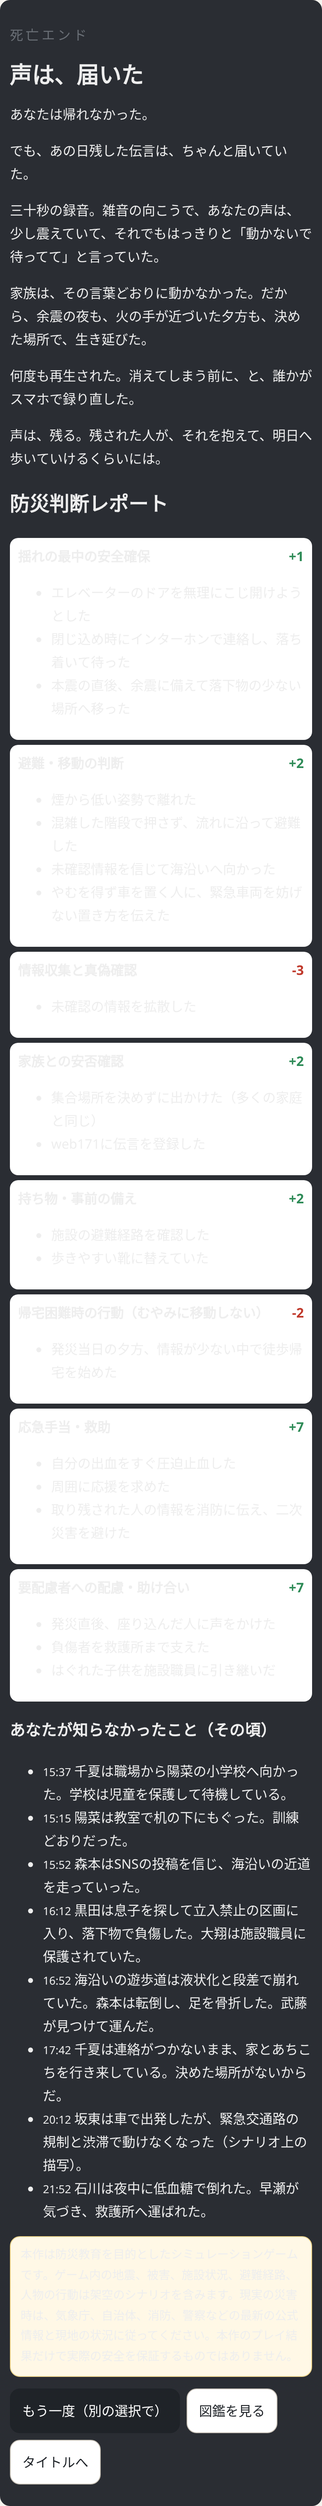
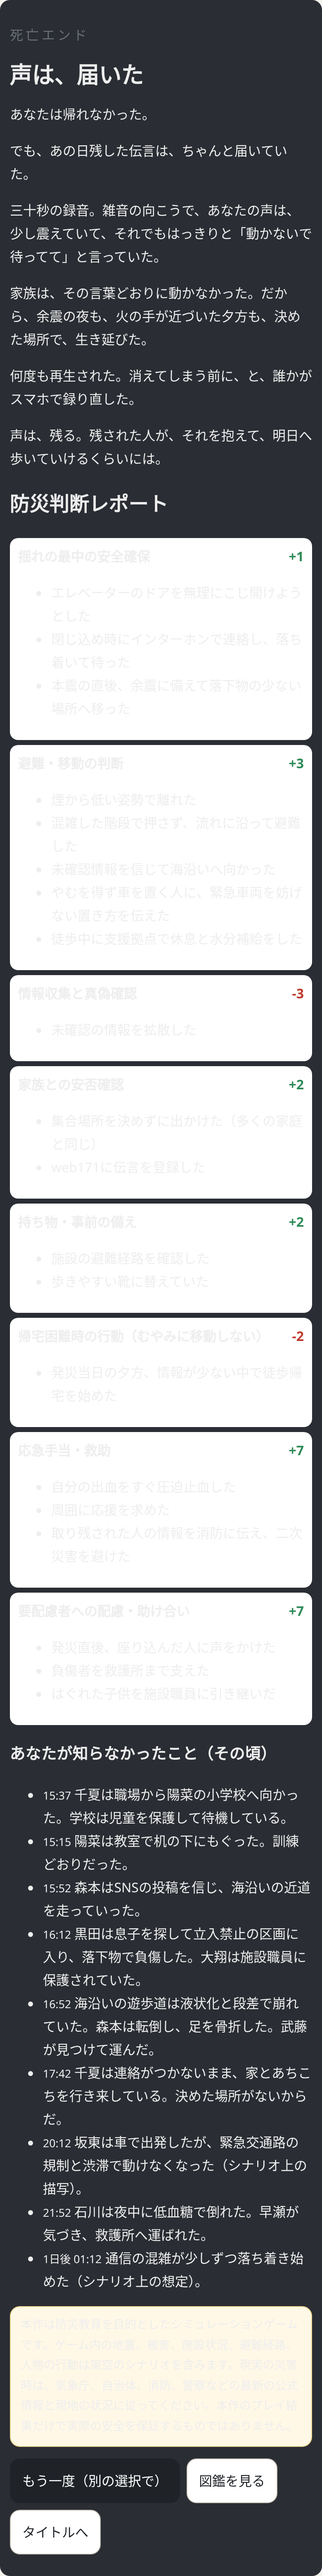
Stage 16: ch3 walk/aid route nights; relocate facility-night chain

diff --git a/src/data/scenes6z.ts b/src/data/scenes6z.ts
@@ -109,7 +109,8 @@ export const ch6z: Scene[] = [
     ['同僚', '安藤さん！'],
     ['{fam1}', 'はい、今行きます。'],
   ], { next: 'c2_end' }),
-  // ==== Stage 13: ch3 ルート別「夜の入口」 ====
+  // ==== Stage 13: ch3 ルート別「施設の夜」（Stage16で施設泊ルートの末尾へ移設） ====
+  R('c3_nt_r', 3, [{ if: { preset: 'worker' }, goto: 'c3w_nA' }, { if: { preset: 'student' }, goto: 'c3s_nA' }, { if: {}, goto: 'c3p_nA' }]),
   S('c3w_nA', 3, 'crowd', [
     ['', '施設の入口近くで、職員が、段ボールを配っていた。床に敷くための段ボール。一人一枚。'],
     ['職員', '床は冷えます。直接寝ないで、一枚でも敷いてください（※この施設は架空です）。'],
@@ -149,7 +150,7 @@ export const ch6z: Scene[] = [
     ['', 'それでも、灯りは、まだ、たくさん残っていた。あの一つ一つの下に、誰かがいる。誰かを待っている誰かがいる。'],
     ['', 'トイレの前には、細い列ができていた。誰も、文句を言わなかった。列の一番後ろで、{me}は、長い時間、待った。待つのは、もう、慣れた。今日一日で、一生分、待った気がする。'],
     ['', '戻ると、さっきのスーツの男が、小さないびきをかいていた。その音が、なぜか、{me}を安心させた。人が眠れる場所に、自分はいる。'],
-  ], { onEnter: { know: 'k_infection' }, next: 'c3_hub' }),
+  ], { onEnter: { know: 'k_infection' }, next: 'c4_dawn' }),
 
   S('c3s_nA', 3, 'crowd', [
     ['', '施設の受付の横に、手書きの貼り紙があった。「外国語の分かる方、お手伝いをお願いします」（※この施設は架空です）。'],
@@ -194,7 +195,7 @@ export const ch6z: Scene[] = [
     ['おばあさん', '大丈夫。揺れたら、また、おさまるの。いつも、そう。'],
     ['', 'その言葉は、科学ではなかった。統計でも、防災の知識でもなかった。でも、{me}は、ノートに、それを書き留めた。「揺れたら、また、おさまる」。'],
     ['', '書き終えて、顔を上げると、ホールの高い窓の向こうで、月が、少しだけ傾いていた。'],
-  ], { onEnter: { know: 'k_aftershock' }, next: 'c3_hub' }),
+  ], { onEnter: { know: 'k_aftershock' }, next: 'c4_dawn' }),
 
   S('c3p_nA', 3, 'crowd', [
     ['', '施設の隅に、「乳幼児のいる方」と書かれた貼り紙があった。仕切りのパネルで囲まれた、小さな一角（※この施設・運用は架空です）。'],
@@ -240,7 +241,7 @@ export const ch6z: Scene[] = [
     ['', '子どもは、怖い体験のあと、夜泣きや、甘えが強くなることがある。それは、異常なことではない、と、いつか美咲が言っていた（※子どもの心のケア・k_mental・要監修）。'],
     ['', 'やがて、律の手足から、力が抜けた。小さな寝息。健司の胸のシャツが、律の涙と鼻水で、ぐっしょりと濡れていた。'],
     ['', '仕切りの向こうで、誰かが、小さく「おつかれさま」と言った。誰の声かは、分からなかった。'],
-  ], { onEnter: { know: 'k_mental' }, next: 'c3_hub' }),
+  ], { onEnter: { know: 'k_mental' }, next: 'c4_dawn' }),
   // ==== Stage 14: ch4 ルート別「避難所の数日」 ====
   R('c4_dr_r', 4, [{ if: { preset: 'worker' }, goto: 'c4w_dA' }, { if: { preset: 'student' }, goto: 'c4s_dA' }, { if: {}, goto: 'c4p_dA' }]),
   S('c4w_dA', 4, 'shelter_life', [
@@ -523,5 +524,110 @@ export const ch6z: Scene[] = [
     ['', '美咲は、絵を、胸に抱いた。泣いているのか、笑っているのか、分からなかった。たぶん、両方だった。'],
     ['', 'その日の午後、絵は、額に入れられて、玄関に飾られた。防災ノートの、すぐ上に。'],
   ], { next: 'c5_drill' }),
+  // ==== Stage 16: ch3 徒歩ルート・救護ルートの夜（ルート別） ====
+  R('c3_wk_r', 3, [{ if: { preset: 'worker' }, goto: 'c3w_wkA' }, { if: { preset: 'student' }, goto: 'c3s_wkA' }, { if: {}, goto: 'c3p_wkA' }]),
+  S('c3w_wkA', 3, 'walk_night', [
+    ['', '橋を渡りきると、道は、急に静かになった。車道には、止まったままの車の列。運転席で、誰かが眠っている。'],
+    ['', '歩道を歩く人の列は、途切れなかった。誰も、しゃべらない。靴音だけが、一定のリズムで続いている。数えきれない靴音。革靴。スニーカー。ヒール。'],
+    ['', '{me}の安全靴は、重かった。でも、足の裏は、まだ無事だった。毎日、現場で一日中立っている足だ。隣を歩くスーツの男は、革靴のかかとを踏みつぶして、引きずるように歩いていた。'],
+    ['', 'コンビニの前に、手書きの紙が貼られていた。「トイレ・水道水どうぞ（※店舗は架空）」。店員が、入口で、ひとりずつ、頭を下げていた。'],
+  ], { choices: [
+      C('wk_rest', '少しだけ店先で休み、足を休ませる', 'c3w_wkB', { icon: '🏪', effects: { stamina: 4, know: 'k_walk_home' }, result: '店先の縁石に腰を下ろした。五分だけ。それだけで、膝の奥の熱が、少し引いた。徒歩で帰るなら、休みながら進むことだ（※帰宅支援の考え方・k_walk_home）。' }),
+      C('wk_push', '休まずに、歩き続ける', 'c3w_wkB', { icon: '🚶', effects: { stamina: -4, time: -10 }, result: '止まったら、もう、立てない気がした。{me}は、コンビニの明かりを、横目で通り過ぎた。' }),
+    ] }),
+  S('c3w_wkB', 3, 'walk_night', [
+    ['', '途中、建設中のビルの前を通った。仮囲いのシートが、一枚、外れて、風にあおられていた。'],
+    ['', '{me}は、足を止めた。囲いの内側で、クレーンのフックが、ゆっくりと揺れている。誰もいない現場。照明は消えていた。'],
+    ['', '体が、勝手に動いた。外れたシートの端を、近くの単管に結び直す。仮の、ほんの応急の結び方。でも、通行人の頭の上に、何かが落ちてくるよりは、ましだ（※危険な建物・工事現場には近づかないことが基本）。'],
+    ['', '結び終えて、{me}は、自分の手を見た。暗くて、よく見えない。でも、いつもの手だった。'],
+    ['', '（陽菜。パパは、今日、壊れたものを、一個だけ、直したよ）'],
+  ], { next: 'c3w_wkC' }),
+  S('c3w_wkC', 3, 'walk_night', [
+    ['', '真夜中。大きな交差点で、ボランティアの腕章をつけた人が、懐中電灯を振っていた。'],
+    ['腕章の人', 'この先、道路に段差ができてます。左側の歩道を使ってください（※道路状況は架空）。'],
+    ['', 'ライトに照らされた道路は、確かに、波打つように、うねっていた。マンホールが、少しだけ、地面から浮き上がっている（※液状化などで起きることがある・k_liquefaction）。'],
+    ['', '{me}は、左の歩道に移った。前を歩く親子連れの父親が、子どもを肩車していた。子どもは、眠っていた。父親の頭に、頬をのせて。'],
+    ['', 'あの背中を、{me}は、しばらく、見つめながら歩いた。陽菜を肩車したのは、いつが最後だっただろう。もう、重くて、そんなに長くは、できない。'],
+    ['', '帰ったら、もう一度、肩車をしよう。重くても。腰が痛くても。'],
+  ], { onEnter: { know: 'k_liquefaction' }, next: 'c4_dawn_walk' }),
+
+  S('c3s_wkA', 3, 'walk_night', [
+    ['', '橋を渡ると、{me}は、自分のスニーカーの紐を、結び直した。きつく。もう一度、きつく。'],
+    ['', 'トートバッグが、肩に食いこむ。図書館の本が、こんなに重いとは思わなかった。民俗学の、分厚い本。返却期限は、来週の火曜日。'],
+    ['', '捨てていこうか、と一瞬だけ思った。でも、捨てられなかった。図書館の本だ。誰かが、次に読む本だ。'],
+    ['', 'かわりに、{me}は、ペットボトルの水を、半分飲んだ。少しでも、軽く。'],
+  ], { next: 'c3s_wkB' }),
+  S('c3s_wkB', 3, 'walk_night', [
+    ['', '道沿いの小学校の門に、「帰宅困難者の方、休憩できます（※施設は架空）」という紙が貼られていた。'],
+    ['', '校庭には、ブルーシートが敷かれ、何十人もの人が、座ったり、横になったりしていた。'],
+    ['', '受付の机で、ジャージ姿の女性が、名簿に名前を書いてもらっていた。'],
+    ['ジャージの女性', 'お名前と、行き先だけでいいですよ。ご家族が探しに来たとき、分かるように（※名簿の扱いは施設により異なる・要監修）。'],
+  ], { choices: [
+      C('wk_write', '名簿に名前と行き先を書き、少し休む', 'c3s_wkC', { icon: '📋', effects: { stamina: 4, mental: 2, know: 'k_walk_home' }, result: '「葵。品川方面」。字が、震えた。それでも、書いた。誰かが、この字を見て、わたしがここを通ったと知るかもしれない。それだけで、少し、地面に足がついた気がした。' }),
+      C('wk_go', '先を急ぐので、水だけもらって出発する', 'c3s_wkC', { icon: '🚰', effects: { water: 10 }, result: '水道の水は、冷たくて、少し鉄の味がした。おいしかった。{me}は、もう一度、紐を結び直して、門を出た。' }),
+    ] }),
+  S('c3s_wkC', 3, 'walk_night', [
+    ['', '夜が、一番深い時間。{me}は、歩きながら、祖母の家のことを考えないようにしていた。考えたら、足が、別の方向へ向いてしまうから。'],
+    ['', 'かわりに、ゼミで読んだ古い記録のことを考えた。昔の大地震のあと、人々は、何日もかけて、歩いて故郷へ帰った。草鞋をすり切らしながら。'],
+    ['', '記録には、こうあった。「道中、見知らぬ者より、握り飯を賜る」。'],
+    ['', '前を歩いていた中年の女性が、振り返って、{me}に飴を一つ差し出した。何も言わずに。'],
+    ['', '{me}は、それを受け取って、頭を下げた。のど飴だった。ハッカの味が、鼻の奥まで、すうっと通った。'],
+    ['', '百年たっても、人は、同じことをする。{me}は、そのことを、ノートに書いておこうと思った。ちゃんと、生きて、帰れたら。'],
+  ], { next: 'c4_dawn_walk' }),
+
+  S('c3p_wkA', 3, 'walk_night', [
+    ['', '橋を渡ると、律の体が、急に重くなった。眠ったのだ。眠った子どもは、起きている子どもより、ずっと重い。'],
+    ['', '健司は、抱っこ紐の位置を、何度も直した。肩が、焼けるように痛い。ベビーカーは、段差の多い夜道では、かえって危なかった。'],
+    ['', '律の寝息が、首筋にあたる。温かい。生きている、温かさ。'],
+    ['', '（大丈夫。あと少し。あと少しだけ、がんばれ、肩）'],
+  ], { choices: [
+      C('wk_switch', '道端で律を下ろさずに、抱っこ紐を左右付け替えて休む', 'c3p_wkB', { icon: '🔄', effects: { stamina: 3 }, result: '右肩から左肩へ。たったそれだけで、右腕に、血が戻ってくるのが分かった。律は、一度も目を覚まさなかった。' }),
+      C('wk_bench', '公園のベンチで、十分だけ座る', 'c3p_wkB', { icon: '🪑', effects: { stamina: 5, time: 10, know: 'k_walk_home' }, result: 'ベンチは冷たかった。でも、座れた。子どもを連れての徒歩帰宅は、無理をしないことが一番だ（※k_walk_home）。夜空に、星が、ひとつだけ見えた。' }),
+    ] }),
+  S('c3p_wkB', 3, 'walk_night', [
+    ['', '途中、二十四時間営業の薬局の前で、若い女性が、健司を呼び止めた。'],
+    ['女性', 'あの……お子さん、靴、脱げそうですよ。'],
+    ['', '健司は、律の足を見た。青いスニーカーが、かかとから半分ずり落ちて、つま先だけでぶら下がっていた。光らなくなった靴。あと一歩で、夜道に落とすところだった。'],
+    ['', '女性は、靴をそっと律の足に戻してくれた。それから、律のくるぶしに触れて、少し眉を寄せた。'],
+    ['女性', '足、冷えてますね。これ、よかったら。弟のなんですけど、もう履かないから。'],
+    ['', '女性は、バッグから、小さな靴下を一足、取り出した。厚手の、毛糸の靴下。'],
+    ['', '健司は、何度も頭を下げた。女性は、「お互いさまです」と笑って、夜の中へ歩いていった。名前も、聞かなかった。'],
+  ], { next: 'c3p_wkC' }),
+  S('c3p_wkC', 3, 'walk_night', [
+    ['', '靴を脱がせ、毛糸の靴下を履かせてから、もう一度靴を履かせた。その律の足を、健司は、手のひらで包んだ。冷たかった。でも、靴下の中で、少しずつ、温まっていく。'],
+    ['', '空が、ほんの少しだけ、白みはじめていた。まだ、夜。でも、夜の終わりの、夜。'],
+    ['', '律が、寝言を言った。'],
+    ['{fam2}', '……ママ……くつ……'],
+    ['', '健司は、律の頭を、そっと撫でた。'],
+    ['{me}', '靴、ちゃんとあるよ。帰ったら、電池、替えような。また、光るように。'],
+    ['', '律は、答えなかった。でも、口元が、少しだけ、笑った気がした。'],
+  ], { next: 'c4_dawn_walk' }),
+
+  R('c3_ad_r', 3, [{ if: { preset: 'worker' }, goto: 'c3w_adA' }, { if: { preset: 'student' }, goto: 'c3s_adA' }, { if: {}, goto: 'c3p_adA' }]),
+  S('c3w_adA', 3, 'aid', [
+    ['', '夜が明けかけた救護所で、{me}は、使い終わった段ボールを、ひとつずつ畳んでいた。'],
+    ['', '一晩で、驚くほどのごみが出た。血のついたガーゼ。空のペットボトル。包装のビニール。早瀬が、「感染に気をつけて、手袋をして」と言った（※k_infection）。'],
+    ['', '{me}は、軍手の上から、ゴム手袋をはめた。袋を二重にして、口を固く縛る。毎日、現場でやっている片付けと、同じだった。ただ、ここでは、ごみの一つ一つに、誰かの夜が染みこんでいた。'],
+    ['', '畳み終えた段ボールの山の上に、子どもの描いた絵が一枚、落ちていた。クレヨンの、赤い太陽。{me}は、それを拾って、受付の机の上に、そっと置いた。持ち主が、取りに来るかもしれないから。'],
+  ], { onEnter: { know: 'k_infection' }, next: 'c4_dawn' }),
+  S('c3s_adA', 3, 'aid', [
+    ['', '夜が明けかけた救護所で、{me}は、自分の手が、ずっと震えているのに気づいた。'],
+    ['', '一晩じゅう、早瀬の指示で、ガーゼを渡し、水を運び、名前を書き留めた。怖いと思う暇も、なかった。暇ができた今、怖さが、まとめて、押し寄せてくる。'],
+    ['', '早瀬が、{me}の隣に座って、紙コップのお茶を差し出した。'],
+    ['早瀬', '手、震えてるね。それ、ちゃんと、怖かったっていう印。おかしなことじゃない。'],
+    ['早瀬', 'あとで、眠れなくなったり、急に思い出して苦しくなったりしたら、一人で抱えないで。相談できる窓口もあるから（※こころのケアの相談窓口・k_mental・要監修）。'],
+    ['', '{me}は、お茶を両手で包んだ。温かかった。手の震えは、止まらなかった。でも、止まらなくてもいいのだと、思えた。'],
+  ], { onEnter: { know: 'k_mental' }, next: 'c4_dawn' }),
+  S('c3p_adA', 3, 'aid', [
+    ['', '夜が明けかけた救護所で、律が目を覚ました。'],
+    ['{fam2}', 'パパ……ここ、どこ？'],
+    ['{me}', '病院みたいなところ。みんなを、元気にするところ。'],
+    ['', '律は、きょろきょろと周りを見回した。白い毛布。包帯を巻いた人たち。眠っている、知らないおじいさん。'],
+    ['{fam2}', 'ママのおしごとと、おなじ？'],
+    ['{me}', '……うん。おなじ。'],
+    ['', '律は、少し考えてから、ポケットに手を入れた。そして、最後の一枚の、魚のビスケットを取り出して、早瀬のところへ、とことこと歩いていった。'],
+    ['{fam2}', 'これ、あげる。がんばったから。'],
+    ['', '早瀬は、しばらく、ビスケットを見つめていた。それから、両手で、それを受け取った。「ありがとう」と言った声は、少し、かすれていた。'],
+  ], { next: 'c4_dawn' }),
 // @@END
 ];

diff --git a/src/data/scenes2.ts b/src/data/scenes2.ts
@@ -28,8 +28,8 @@ export const ch3: Scene[] = [
     ['拓海', 'じゃあ、夜までに、帰らないとな。'],
     ['', '拓海は、そう言ってから、自分の言葉の重さに気づいたように、黙った。今夜、帰れるかどうか、二人とも、分からなかった。'],
   ], { choices: [
-      C('save', 'スマホを省電力モードにして、画面を消す', 'c3w_nA', { icon: '🔋', effects: { battery: 3, know: 'k_comm' }, result: '画面の明るさを、一番下まで落とした。陽菜の笑顔が、暗い画面の向こうに沈んでいった。また、明るいところで見よう。' }),
-      C('note', '手帳に、陽菜の学校と千夏の会社の住所を書き写す', 'c3w_nA', { icon: '📝', effects: { flag: 'wrote_addresses' }, result: 'スマホが消えても、この紙は消えない。ボールペンの字は、震えて、ひどく読みにくかった。それでも、読めた。' }),
+      C('save', 'スマホを省電力モードにして、画面を消す', 'c3_hub', { icon: '🔋', effects: { battery: 3, know: 'k_comm' }, result: '画面の明るさを、一番下まで落とした。陽菜の笑顔が、暗い画面の向こうに沈んでいった。また、明るいところで見よう。' }),
+      C('note', '手帳に、陽菜の学校と千夏の会社の住所を書き写す', 'c3_hub', { icon: '📝', effects: { flag: 'wrote_addresses' }, result: 'スマホが消えても、この紙は消えない。ボールペンの字は、震えて、ひどく読みにくかった。それでも、読めた。' }),
     ] }),
   S('c3s_dusk', 3, 'crowd', [
     ['', '葵は、広場の植え込みの縁に腰かけて、靴を脱いだ。かかとに、靴ずれができていた。今日は、歩くつもりのない靴で来ていた。'],
@@ -41,8 +41,8 @@ export const ch3: Scene[] = [
     ['女の子', 'ありがとう。……なんか、おばあちゃんみたいな絆創膏ですね。'],
     ['', '葵は、声を出して笑った。地震のあと、初めて笑った。'],
   ], { choices: [
-      C('exchange', '連絡先を交換して、お互いの無事を知らせ合う約束をする', 'c3s_nA', { icon: '🤝', effects: { mental: 4, flag: 'met_traveler' }, result: '「無事に飛べたら、連絡します」。「飛べなくても、連絡して」。二人は、そう言い合って、少しだけ、また笑った。' }),
-      C('rest', 'かかとの手当てをして、少し休む', 'c3s_nA', { icon: '🩹', effects: { stamina: 4 }, result: 'もう一枚の絆創膏を、自分のかかとに貼った。祖母の匂いがする気がした。気のせいだと分かっていても。' }),
+      C('exchange', '連絡先を交換して、お互いの無事を知らせ合う約束をする', 'c3_hub', { icon: '🤝', effects: { mental: 4, flag: 'met_traveler' }, result: '「無事に飛べたら、連絡します」。「飛べなくても、連絡して」。二人は、そう言い合って、少しだけ、また笑った。' }),
+      C('rest', 'かかとの手当てをして、少し休む', 'c3_hub', { icon: '🩹', effects: { stamina: 4 }, result: 'もう一枚の絆創膏を、自分のかかとに貼った。祖母の匂いがする気がした。気のせいだと分かっていても。' }),
     ] }),
   S('c3p_dusk', 3, 'crowd', [
     ['', '律が、健司の膝の上で、眠りかけていた。昼寝の時間を、とっくに過ぎている。まぶたが、落ちては、はっと開き、また落ちる。'],
@@ -56,8 +56,8 @@ export const ch3: Scene[] = [
     ['', '小さな袋に、ビスケットは、七枚しか入っていなかった。律は、それを、真剣な顔で数えて、四枚を健司の手のひらに置いた。'],
     ['律', 'パパ、おおきいから、おおい。'],
   ], { choices: [
-      C('eat', '一枚だけ食べて、残りは律のために取っておく', 'c3p_nA', { icon: '🐟', effects: { mental: 4, flag: 'saved_biscuit' }, result: '一枚を口に入れた。甘くて、少し塩辛い。残りの三枚を、そっと袋に戻した。夜中に、律がお腹をすかせて起きたときのために。' }),
-      C('all', '「ありがとう」と、四枚全部を一緒に食べる', 'c3p_nA', { icon: '😋', effects: { stamina: 2, mental: 3 }, result: '二人で、一枚ずつ、ゆっくり食べた。律は、最後の一枚を食べ終えると、満足そうに、健司の胸で眠った。' }),
+      C('eat', '一枚だけ食べて、残りは律のために取っておく', 'c3_hub', { icon: '🐟', effects: { mental: 4, flag: 'saved_biscuit' }, result: '一枚を口に入れた。甘くて、少し塩辛い。残りの三枚を、そっと袋に戻した。夜中に、律がお腹をすかせて起きたときのために。' }),
+      C('all', '「ありがとう」と、四枚全部を一緒に食べる', 'c3_hub', { icon: '😋', effects: { stamina: 2, mental: 3 }, result: '二人で、一枚ずつ、ゆっくり食べた。律は、最後の一枚を食べ終えると、満足そうに、健司の胸で眠った。' }),
     ] }),
   S('c3_hub', 3, 'crowd', [
     ['拓海', 'なあ。モールの奥に、まだ人が残ってるって。煙の向こうから声がした。'],
@@ -132,11 +132,11 @@ export const ch3: Scene[] = [
   S('c3_171', 3, 'phone_171', [
     ['', '171で、自分の家族からの伝言を再生してみる。'],
   ], { alt: [{ if: { flag: 'fam1_recorded171' }, goto: 'c3_171_yes' }], lines: [['', '「お預かりしている伝言はありません」'], ['', '決めていなかった。どこに、何を残すか。']],
-    onEnter: { mental: -8 }, next: 'c4_dawn' }),
+    onEnter: { mental: -8 }, next: 'c3_nt_r' }),
   S('c3_171_yes', 3, 'phone_171', [
     ['{fam1}', '（録音）……{fam1}です。{fam2}も無事。約束どおり、ここに残すね。私たちは動かない。あなたも、無理しないで。'],
     ['', '声を聞いた瞬間、体の力が抜けた。'],
-  ], { onEnter: { mental: 25, flag: 'heard_fam1' }, next: 'c4_dawn' }),
+  ], { onEnter: { mental: 25, flag: 'heard_fam1' }, next: 'c3_nt_r' }),
   // --- walk route ---
   S('c3_walk1', 3, 'liquefaction', [
     ['', '有明方面。歩道のあちこちから砂が噴き出し、マンホールが突き出している。'],
@@ -163,9 +163,9 @@ export const ch3: Scene[] = [
     ['', '「この先、通れるらしい」と誰かが言う。根拠は分からない。別の誰かが「向こうは燃えてるって」と言う。それにも、根拠はない。'],
     ['', 'スマホの電池は、もう心もとない。明るい情報も暗い情報も、同じ小さな画面の中で、同じ大きさの文字で流れていく。いま、この橋の上で、正しいことを知っている人は、たぶん一人もいない。'],
   ], { fx: 'dark', onEnter: { time: 60, know: 'k_smoke' }, choices: [
-      C('detour', '風上へ大きく迂回する（2時間余計にかかる）', 'c4_dawn_walk', { icon: '↪', effects: { time: 120, stamina: -12, water: -10, report: { cat: 'evac', score: 2, note: '火災の煙を避けて迂回した' } } }),
-      C('through', '煙の中を突っ切る', 'c4_dawn_walk', { icon: '🔥', effects: { time: 30, risk: { kind: 'fire', level: 26, label: '煙と熱気の中を通過した' }, report: { cat: 'evac', score: -3, note: '火災の煙の中を突っ切った' } } }),
-      C('wait', '橋のたもとの公園で夜明けを待つ', 'c4_dawn_walk', { icon: '🌙', effects: { time: 240, risk: { kind: 'water', level: 10, label: '夜の冷え込みで体が冷えた' }, report: { cat: 'stay', score: 2, note: '夜間の移動をやめ、明るくなるまで待った' } } }),
+      C('detour', '風上へ大きく迂回する（2時間余計にかかる）', 'c3_wk_r', { icon: '↪', effects: { time: 120, stamina: -12, water: -10, report: { cat: 'evac', score: 2, note: '火災の煙を避けて迂回した' } } }),
+      C('through', '煙の中を突っ切る', 'c3_wk_r', { icon: '🔥', effects: { time: 30, risk: { kind: 'fire', level: 26, label: '煙と熱気の中を通過した' }, report: { cat: 'evac', score: -3, note: '火災の煙の中を突っ切った' } } }),
+      C('wait', '橋のたもとの公園で夜明けを待つ', 'c3_wk_r', { icon: '🌙', effects: { time: 240, risk: { kind: 'water', level: 10, label: '夜の冷え込みで体が冷えた' }, report: { cat: 'stay', score: 2, note: '夜間の移動をやめ、明るくなるまで待った' } } }),
     ] }),
   // --- aid route ---
   S('c3_aid', 3, 'aid', [

diff --git a/src/data/scenes3.ts b/src/data/scenes3.ts
@@ -165,18 +165,18 @@ export const ch3y: Scene[] = [
   S('c3w_aid2', 3, 'aid', [
     ['', '夜明け前。早瀬が、はじめて床に座り込んだ。手袋を外した指が、小さく震えている。'],
     ['早瀬', '……息子と、まだ連絡が取れないの。十歳。看護師なのに、自分の子のところにだけは行けない。'],
-    ['', '陽菜は八歳だ。二つしか違わない。その顔が浮かんで、あなたは言葉を探すのをやめた。'],
+    ['', '陽菜は七歳だ。三つしか違わない。その顔が浮かんで、あなたは言葉を探すのをやめた。'],
   ], { choices: [
-      C('web171', '早瀬の代わりにweb171で息子の学校名を検索する', 'c4_dawn', { icon: '🌐', if: { minBattery: 10 }, effects: { battery: -4, npc: { id: 'hayase', trust: 20, flag: 'son_found' }, report: { cat: 'contact', score: 2, note: '他者の安否確認を手伝った' } }, result: '学校の伝言板に「児童は全員校内で保護」の書き込みがあった（ゲーム内架空情報）。早瀬は顔を覆い、それから、何事もなかったように手袋をはめ直した。' }),
-      C('sit', '隣に座り、水を渡す', 'c4_dawn', { icon: '💧', effects: { npc: { id: 'hayase', trust: 10 } }, result: '早瀬は一口だけ飲んで、「東北に行ったときも、こうやって誰かが水をくれた」とだけ言った。' }),
+      C('web171', '早瀬の代わりにweb171で息子の学校名を検索する', 'c3_ad_r', { icon: '🌐', if: { minBattery: 10 }, effects: { battery: -4, npc: { id: 'hayase', trust: 20, flag: 'son_found' }, report: { cat: 'contact', score: 2, note: '他者の安否確認を手伝った' } }, result: '学校の伝言板に「児童は全員校内で保護」の書き込みがあった（ゲーム内架空情報）。早瀬は顔を覆い、それから、何事もなかったように手袋をはめ直した。' }),
+      C('sit', '隣に座り、水を渡す', 'c3_ad_r', { icon: '💧', effects: { npc: { id: 'hayase', trust: 10 } }, result: '早瀬は一口だけ飲んで、「東北に行ったときも、こうやって誰かが水をくれた」とだけ言った。' }),
     ] }),
   S('c3s_aid2', 3, 'aid', [
     ['', '夜明け前。早瀬が、はじめて床に座り込んだ。'],
     ['早瀬', 'あなた、学生さん？……よく動いてくれた。私の息子もね、あと十年したら、あなたくらいになる。まだ、連絡が取れないけど。'],
     ['', '大人も、こんなふうに怖がるのだ。そう知ったことが、なぜか少しだけ、あなたを強くした。'],
   ], { choices: [
-      C('web171', '「わたし、探してみます」web171で息子さんの学校名を検索する', 'c4_dawn', { icon: '🌐', if: { minBattery: 10 }, effects: { battery: -4, npc: { id: 'hayase', trust: 25, flag: 'son_found' }, report: { cat: 'contact', score: 2, note: '他者の安否確認を手伝った' } }, result: '学校の伝言板に「児童は全員校内で保護」の書き込み（ゲーム内架空情報）。早瀬はあなたの肩に手を置き、「ありがとう。あなたのおばあさんも、きっと誰かが見てる」と言った。' }),
-      C('sit', '隣に座り、黙って水を渡す', 'c4_dawn', { icon: '💧', effects: { npc: { id: 'hayase', trust: 10 }, mental: 2 } }),
+      C('web171', '「わたし、探してみます」web171で息子さんの学校名を検索する', 'c3_ad_r', { icon: '🌐', if: { minBattery: 10 }, effects: { battery: -4, npc: { id: 'hayase', trust: 25, flag: 'son_found' }, report: { cat: 'contact', score: 2, note: '他者の安否確認を手伝った' } }, result: '学校の伝言板に「児童は全員校内で保護」の書き込み（ゲーム内架空情報）。早瀬はあなたの肩に手を置き、「ありがとう。あなたのおばあさんも、きっと誰かが見てる」と言った。' }),
+      C('sit', '隣に座り、黙って水を渡す', 'c3_ad_r', { icon: '💧', effects: { npc: { id: 'hayase', trust: 10 }, mental: 2 } }),
     ] }),
   S('c3p_aid2', 3, 'aid', [
     ['', '夜明け前。律は毛布の中で、あなたの上着の裾を握ったまま眠っている。'],
@@ -184,8 +184,8 @@ export const ch3y: Scene[] = [
     ['早瀬', '……うちの子は十歳。まだ、連絡が取れない。あなたは、そばにいられてよかったね。'],
     ['', 'その「よかったね」には、責める響きはひとつもなかった。だから余計に、胸に刺さった。'],
   ], { choices: [
-      C('web171', '律を起こさないよう片手で、web171で息子さんの学校名を検索する', 'c4_dawn', { icon: '🌐', if: { minBattery: 10 }, effects: { battery: -4, npc: { id: 'hayase', trust: 20, flag: 'son_found' }, report: { cat: 'contact', score: 2, note: '子どもを見ながら他者の安否確認を手伝った' } }, result: '「児童は全員校内で保護」（ゲーム内架空情報）。早瀬は声を出さずに泣き、律が寝返りを打つと、反射のように毛布を掛け直してくれた。' }),
-      C('sit', '律を抱いたまま、早瀬に水を差し出す', 'c4_dawn', { icon: '💧', effects: { npc: { id: 'hayase', trust: 10 } } }),
+      C('web171', '律を起こさないよう片手で、web171で息子さんの学校名を検索する', 'c3_ad_r', { icon: '🌐', if: { minBattery: 10 }, effects: { battery: -4, npc: { id: 'hayase', trust: 20, flag: 'son_found' }, report: { cat: 'contact', score: 2, note: '子どもを見ながら他者の安否確認を手伝った' } }, result: '「児童は全員校内で保護」（ゲーム内架空情報）。早瀬は声を出さずに泣き、律が寝返りを打つと、反射のように毛布を掛け直してくれた。' }),
+      C('sit', '律を抱いたまま、早瀬に水を差し出す', 'c3_ad_r', { icon: '💧', effects: { npc: { id: 'hayase', trust: 10 } } }),
     ] }),
   // ---- 一時滞在施設の深夜（c3_night のプリセット別導入）----
   S('c3w_night', 3, 'night_shelter', [

diff --git a/KNOWN_ISSUES.md b/KNOWN_ISSUES.md
@@ -38,3 +38,12 @@
 - 生存者平均はまだ90分未満（student最短）。
 - 整合修正: 陽菜=二年生、律=五歳、c0_shopのハロウィン削除、c5s_revの公衆電話記述削除。
 - c3_aid のトリアージ記述は引き続き「要監修」。
+
+## Stage 12–16
+- Stage 12: ch2 ルート別追加（c2{w,s,p}_iA–iD）。新規 chapterEnd なし。
+- Stage 13: ch3 施設泊チェーン（c3*_nA–nE）。当初 c3_hub 前に実行され夕方イベントと時系列矛盾 → Stage 16 で 171 滞在経路末尾（c3_nt_r）へ移設し解消。
+- Stage 14: ch4 避難所チェーン（c4*_dA–dE）。student は reunited_partner で c4s_dD2 に分岐。手紙は未手渡しと明記。
+- Stage 15: ch5 朝チェーン（c5*_mA–mD）。c5p_mB「三日会えなかった」を削除（ch4 再会と矛盾回避）。
+- Stage 16: ch3 徒歩（c3*_wkA–C）・救護（c3*_adA）夜。陽菜の年齢表記を7歳に統一。律の靴は紛失させず（ch5 の電池交換描写と整合）。
+- 既知: 生存者平均は未だ 91–96 分で目標 120 分に未達。ch4 後半・ch5 後半・ch0/ch1 の拡充が必要。
+- 防災情報は既存 knowledge id のみ使用。新規の事実記述なし（要監修項目の追加なし）。

diff --git a/COUNTS.md b/COUNTS.md
@@ -86,3 +86,8 @@
 - 生存者平均 約98 / 92 / 93分、死亡率24.3%、全10エンディング到達
 - 応急危険度判定・防災の日の由来の記述は要監修
 - 未達: 生存者平均120分にはまだ届かない
+
+## Stage 16（ch3 徒歩/救護ルートの夜、施設泊チェーンを171経路末尾へ移設）
+- scenes 391 / choices 362 / dialogueLines 1679
+- 生存者平均（N=800, CPM450）: worker 96.4 / student 91.0 / parent 91.7 分、死亡率 23.8%
+- 全10エンディング到達
